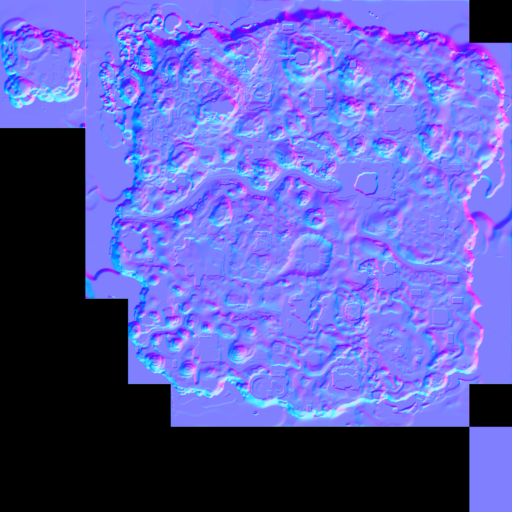
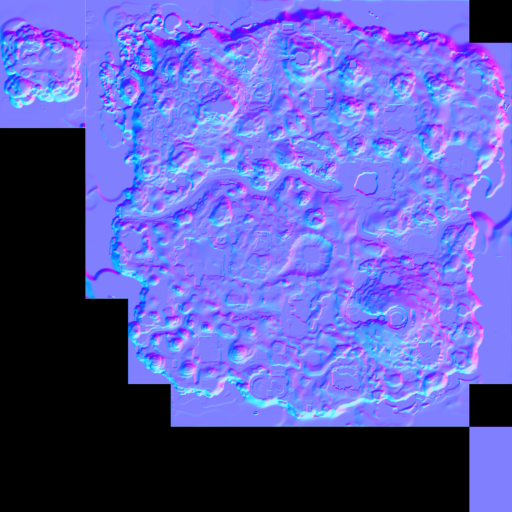
Update to 8.00
Season 8 Fortnite update

diff --git a/fortnite-tga-slice.py b/fortnite-tga-slice.py
@@ -135,41 +135,48 @@ height_composite = Image.new("I", (tile_width * tile_scale, tile_height * tile_s
 athena_indices = {
 	0: {
                 
-                0: (7, 0), 3: (6, 0), 110: (5, 0), 112: (4, 0), 23: (1, 0), 25:(0, 0),
-                101: (3, 0), 96: (2, 0), 93: (5, 1), 102: (6, 1), 107: (7, 1), 114: (4, 1),
-                97: (3, 1), 99: (0, 1), 90: (5, 3), 120: (4, 4), 123: (0, 2), 26: (6, 3),
-                72: (6, 2), 75: (1, 1), 78: (7, 2), 81: (2, 1), 87: (5, 2),
+                0: (7, 0), 123: (0, 2), 107: (7, 1),  99: (0, 1), 96: (2, 0),
+                78: (7, 2), 75: (1, 1), 45: (1, 2), 25: (0, 0), 23: (1, 0),
                  
 		},
         1: {
         
                 1: (5, 4), 2: (6, 4), 3: (7, 4), 5: (5, 5), 6: (6, 5),10: (6, 6), 
-                78: (1, 2), 65: (3, 4), 64: (2, 4), 63: (4, 2), 62: (4, 3),
-                61: (2, 2), 58: (2, 3), 56: (3, 3), 43: (3, 2), 25: (11, 10), 40: (11, 11),
-                 
+                25: (11, 10), 40: (11, 11),
+                
                 },
+        2: {
+
+                11: (3, 3), 10: (3, 2), 9:(3, 1), 8: (3, 0), 7: (4, 1), 6: (4, 0),
+                5: (5, 1), 4: (6, 1), 3: (5, 0), 0: (6, 0), 63: (2, 3), 22: (2, 4),
+                21: (2, 2), 20: (2, 1), 19: (6, 3), 18: (4, 4), 17: (3, 4),
+                16: (5, 3), 15: (6, 2), 14: (5, 2), 13: (4, 2), 12: (4, 3),
+
+            },
+        
         3: {
 
-                0: (11, 5), 4: (11, 4), 5: (8, 0),
-                6: (9, 0), 7: (10, 0), 9: (8, 1), 10: (9, 1), 11: (10, 1), 12: (11, 1),
-                13: (8, 2), 14: (9, 2), 15: (10, 2), 16: (11, 2), 17: (8, 3), 18: (9, 3),
-                19: (10, 3), 20: (11, 3), 25: (10, 4), 26: (9, 4), 27: (8, 4), 29: (7, 3),
+                52: (11, 4), 42: (11, 3), 22: (11, 2), 1: (11, 1), 164: (11, 5),
+                160: (8, 0), 158: (9, 0), 156: (10, 0), 154: (10, 1), 150: (10, 2),
+                147: (9, 1), 144: (8, 1), 141: (10, 3), 136: (10, 4), 133: (9, 2),
+                128: (9, 3), 113: (9, 4), 93: (8, 4), 70: (8, 3), 65: (8, 2), 61: (7, 3),
                 
                 },
         4: {
             
                 0: (4, 7), 8: (3, 8), 21: (2, 6), 23: (3, 7), 24: (3, 6), 26: (5, 7), 
                 27: (4, 8), 32: (4, 9), 36: (6, 7), 39: (5, 6), 42: (4, 6), 45: (2, 5),
-                49: (3, 5), 52: (4, 5),
+                49: (3, 5), 52: (4, 5), 
                 
                 },
         5: {
 
-                2: (6, 9), 4: (7, 8), 5: (7, 9), 7: (8, 8), 8: (9, 8), 9: (10, 8),
-                10: (11, 8), 11: (8, 9), 12: (9, 9), 13: (10, 9), 21: (6, 8), 23: (8, 6),
-                24: (9, 6), 25: (10, 6), 26: (11, 6), 27: (8, 7), 28: (9, 7), 29: (10, 7),
-                30: (11, 7), 37: (5, 9), 39: (5, 8), 17: (7, 6), 41: (7, 7), 49: (10, 5),
-                108: (9, 5), 111: (8, 5), 114: (7, 5),
+                142: (11, 8), 139: (10, 8), 136: (10, 7), 129: (11, 7), 131:(11, 6),
+                133: (6, 8), 126: (8, 8), 123: (7, 9), 120: (9, 5), 117: (8, 9),
+                190: (5, 9), 187: (10, 5), 184: (9, 6), 181: (10, 6), 178: (8, 5),
+                175: (7, 5), 172: (8, 7), 169: (8, 6), 166: (7, 6), 163: (6, 9),
+                160: (7, 7), 157: (7, 8), 154: (9, 7), 151: (9, 8), 149: (9, 9),
+                147: (10, 9), 144: (5, 8),
 
                 }
 }
